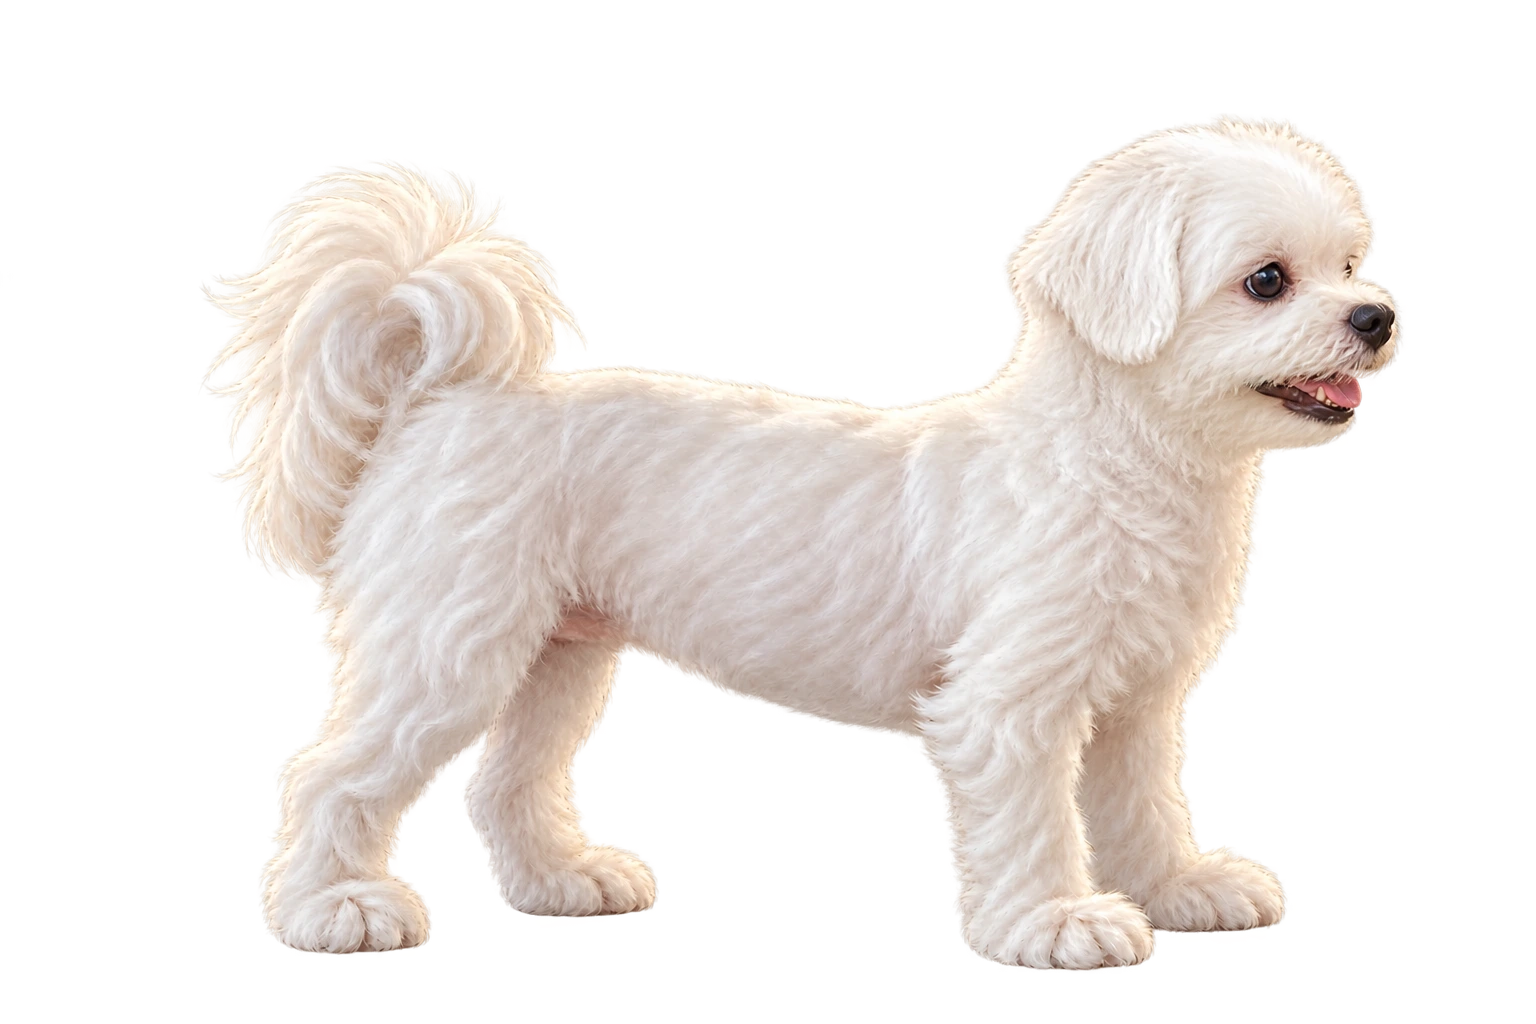
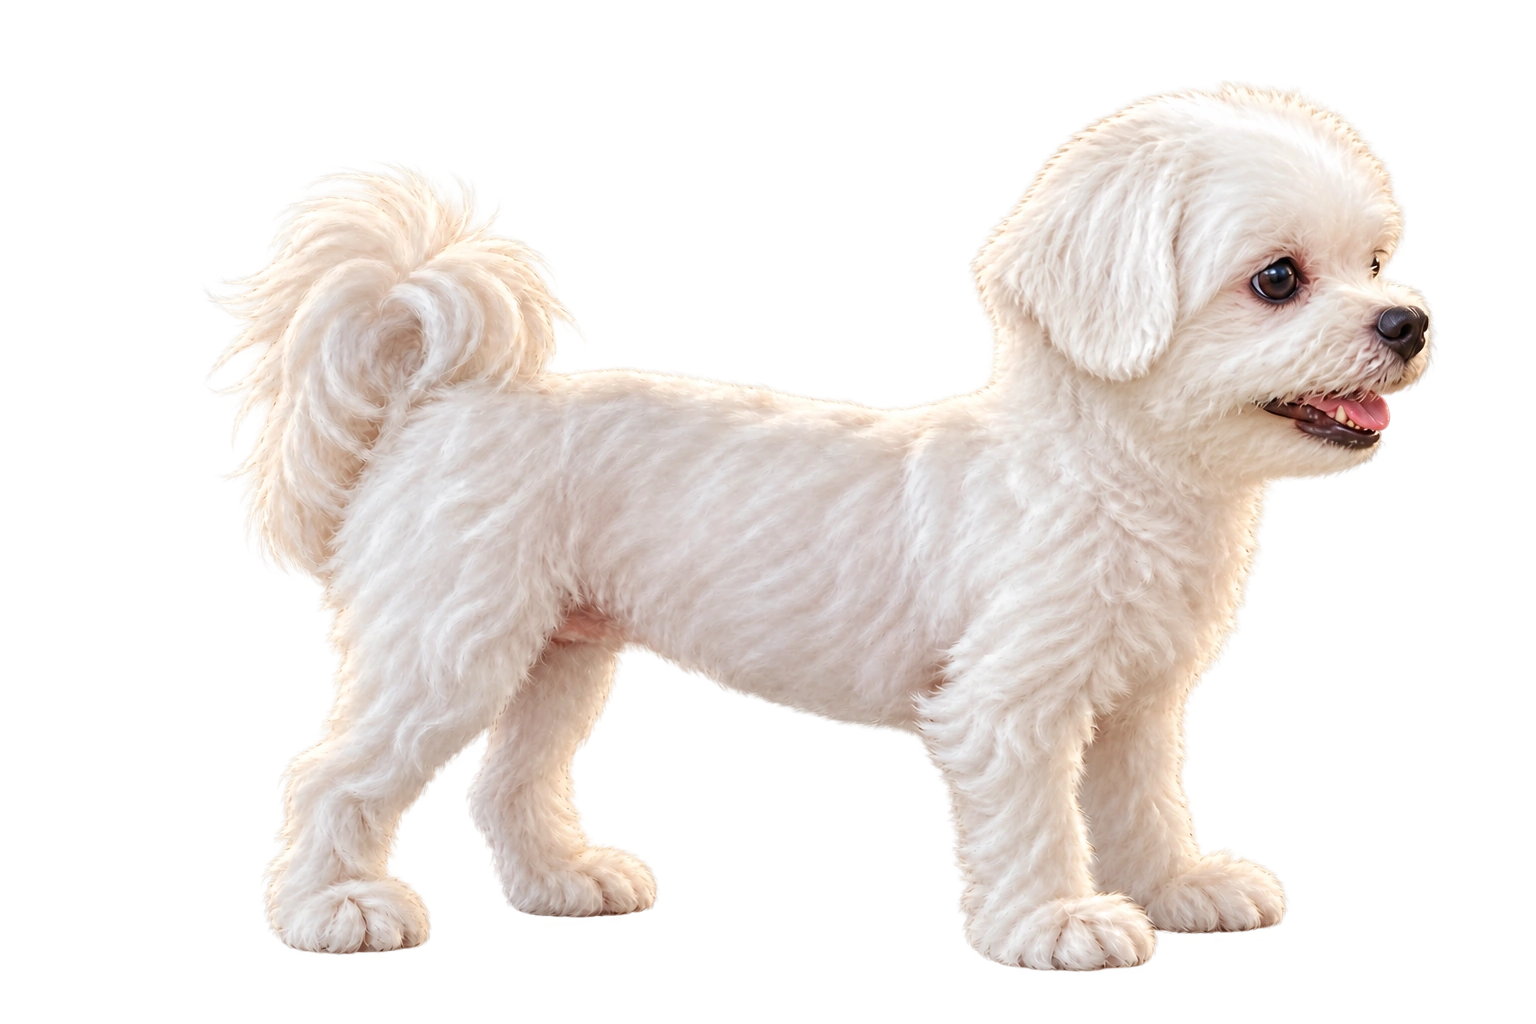
Refine Milky profile head proportions and preserve source sprites

diff --git a/asset-sources/milky-profile-head/README.md b/asset-sources/milky-profile-head/README.md
@@ -1,0 +1,9 @@
+# Milky profile head refinement
+
+The user requested a slightly fuller head when Milky looks sideways while walking, closer to the familiar camera-facing proportions. Only the forward-looking idle, eight forward walk frames, and four brisk trot frames are replaced. All camera-facing, greeting, sleep, rest, eating and play artwork remains unchanged.
+
+The built-in `image_gen` tool performed each raster edit separately. `before/` contains the shipped sprites used as edit targets; no private photographs were copied. Exact prompts and full generated outputs are retained beside each set.
+
+`generated/idle-candidate-1.png` is the approved common head reference. It increases the head, ears and muzzle by a modest amount while retaining the neck attachment, body, tail and paw registration. The second idle attempt is rejected because it changes body detail more noticeably. The generated outputs retain genuine alpha. Their hidden RGB outside the alpha silhouette can look like a pale halo in viewers that ignore alpha; compositing with the alpha channel confirms there is no visible background.
+
+Runtime WebP files retain the original 1536 × 1024 idle and 768 × 512 movement canvases. Encoding uses WebP quality 95 and preserves alpha. Source and runtime registration measurements are recorded in the validation JSON files. No runtime scale, frame offsets or gait timings were changed.
